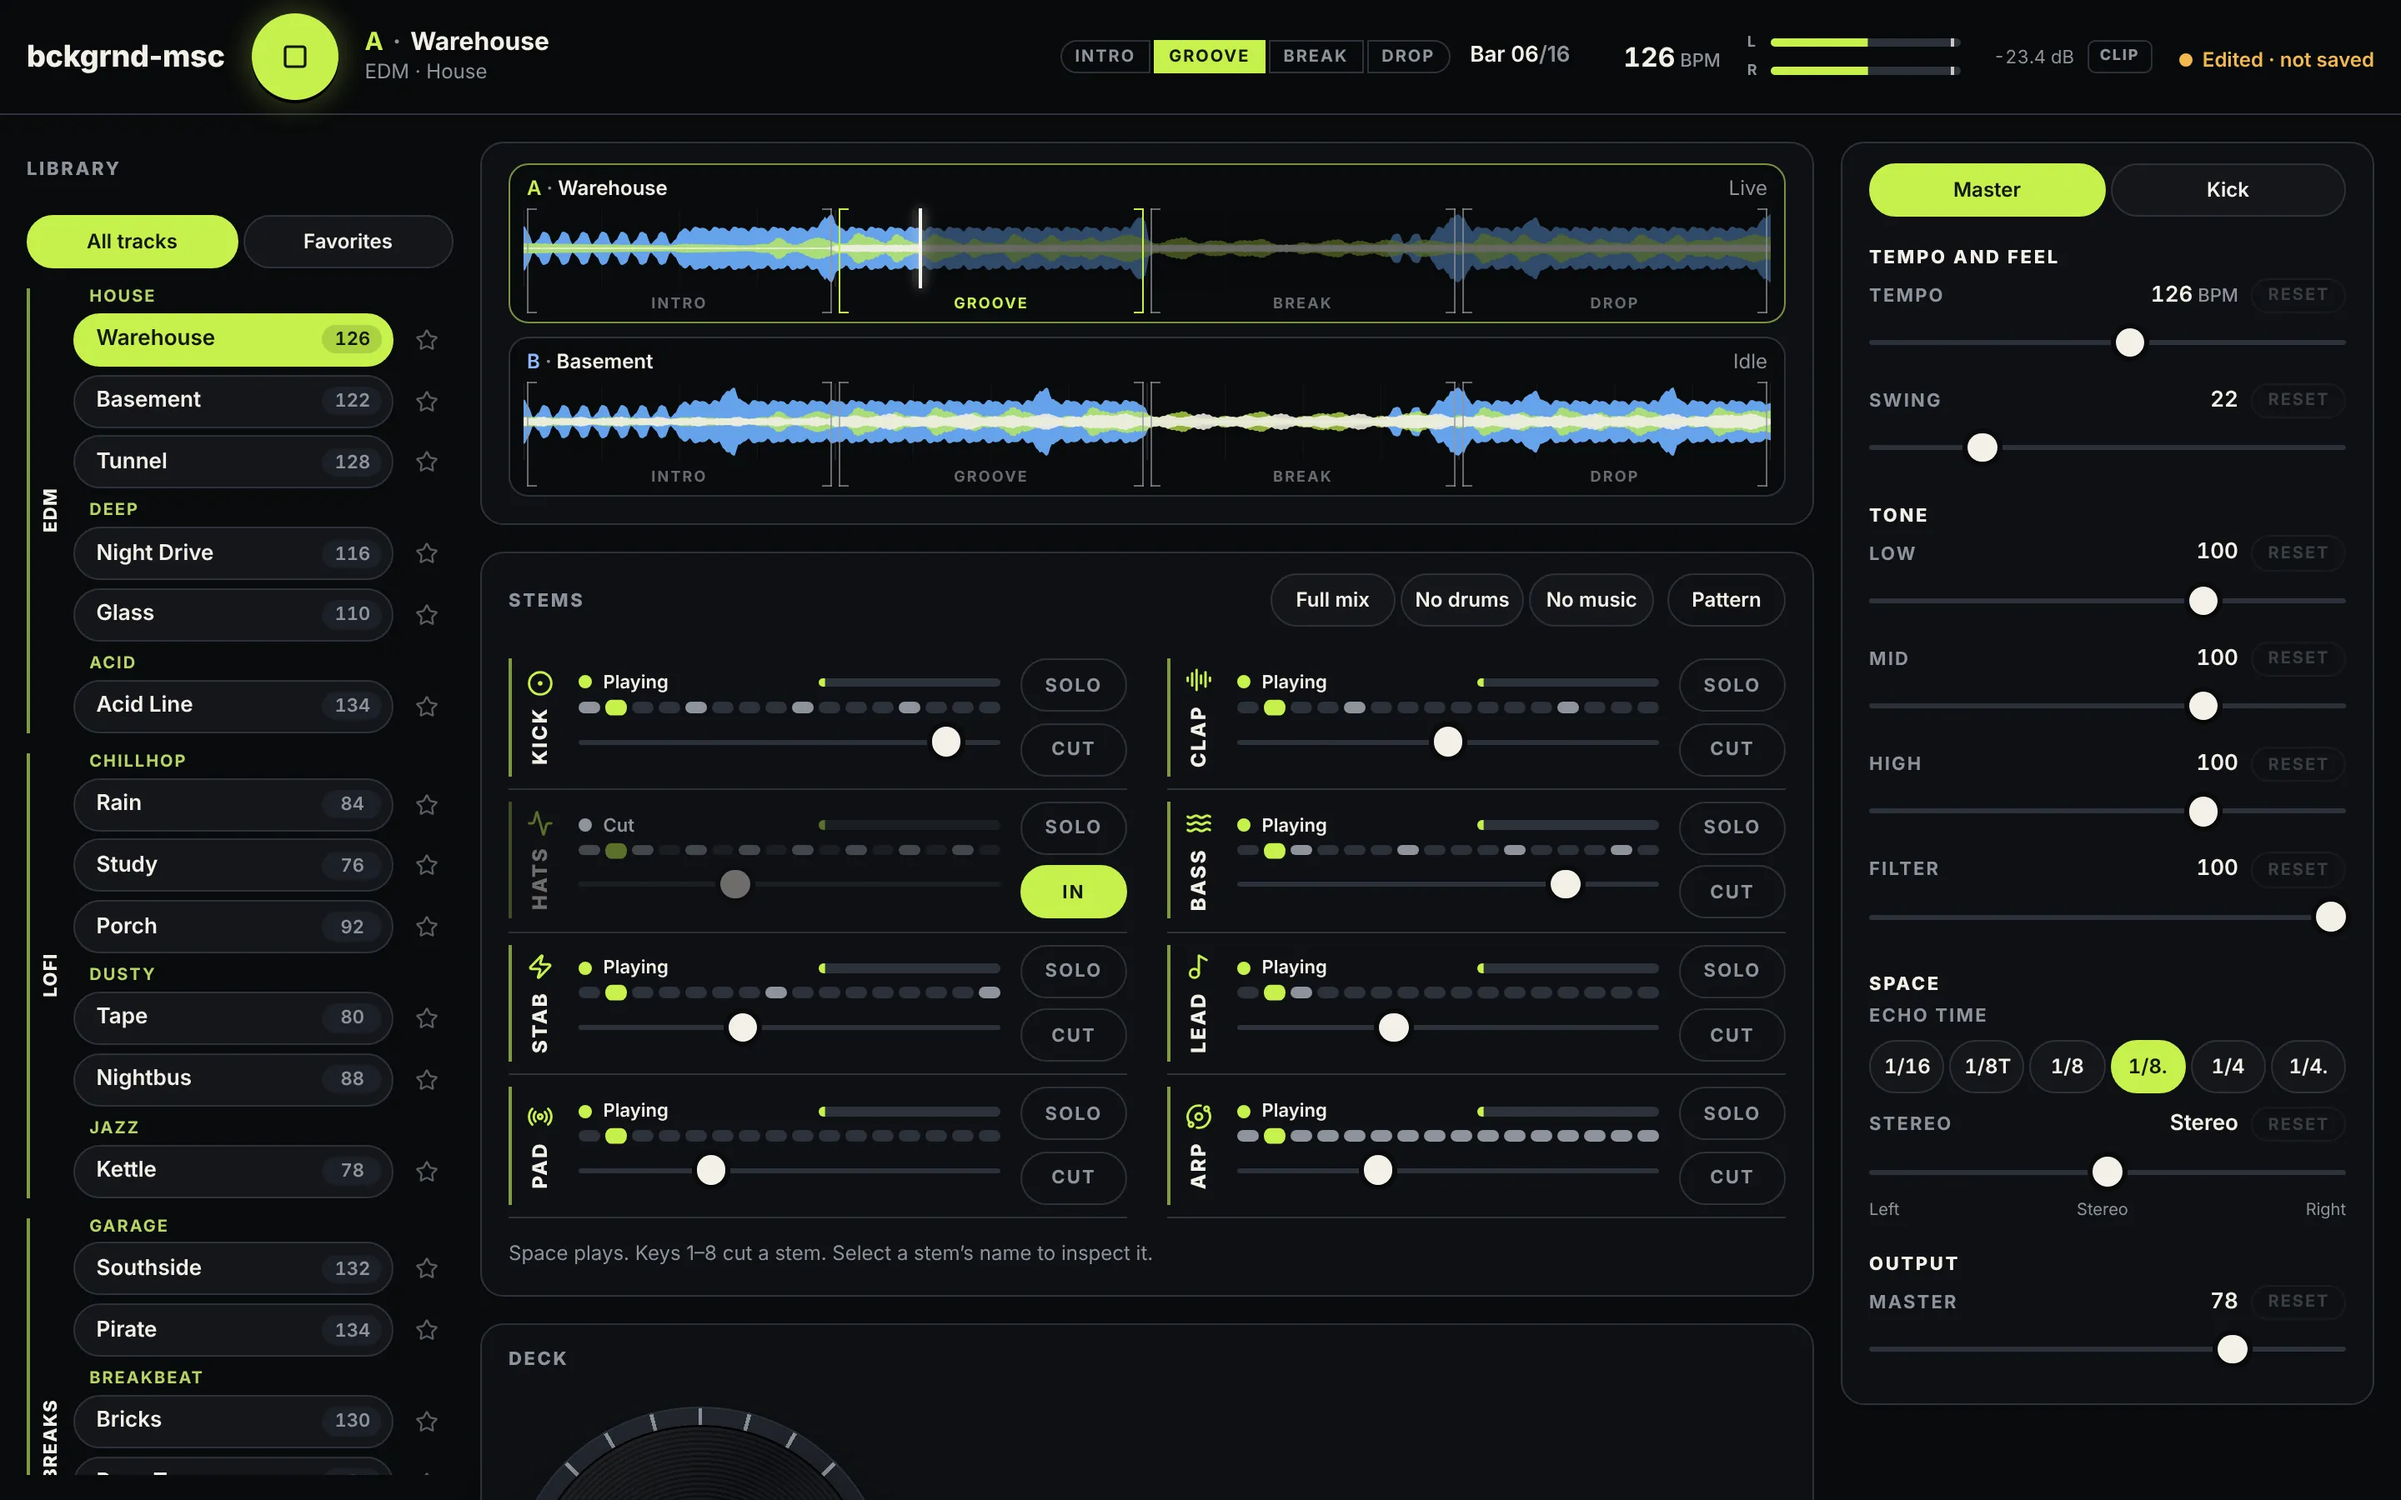
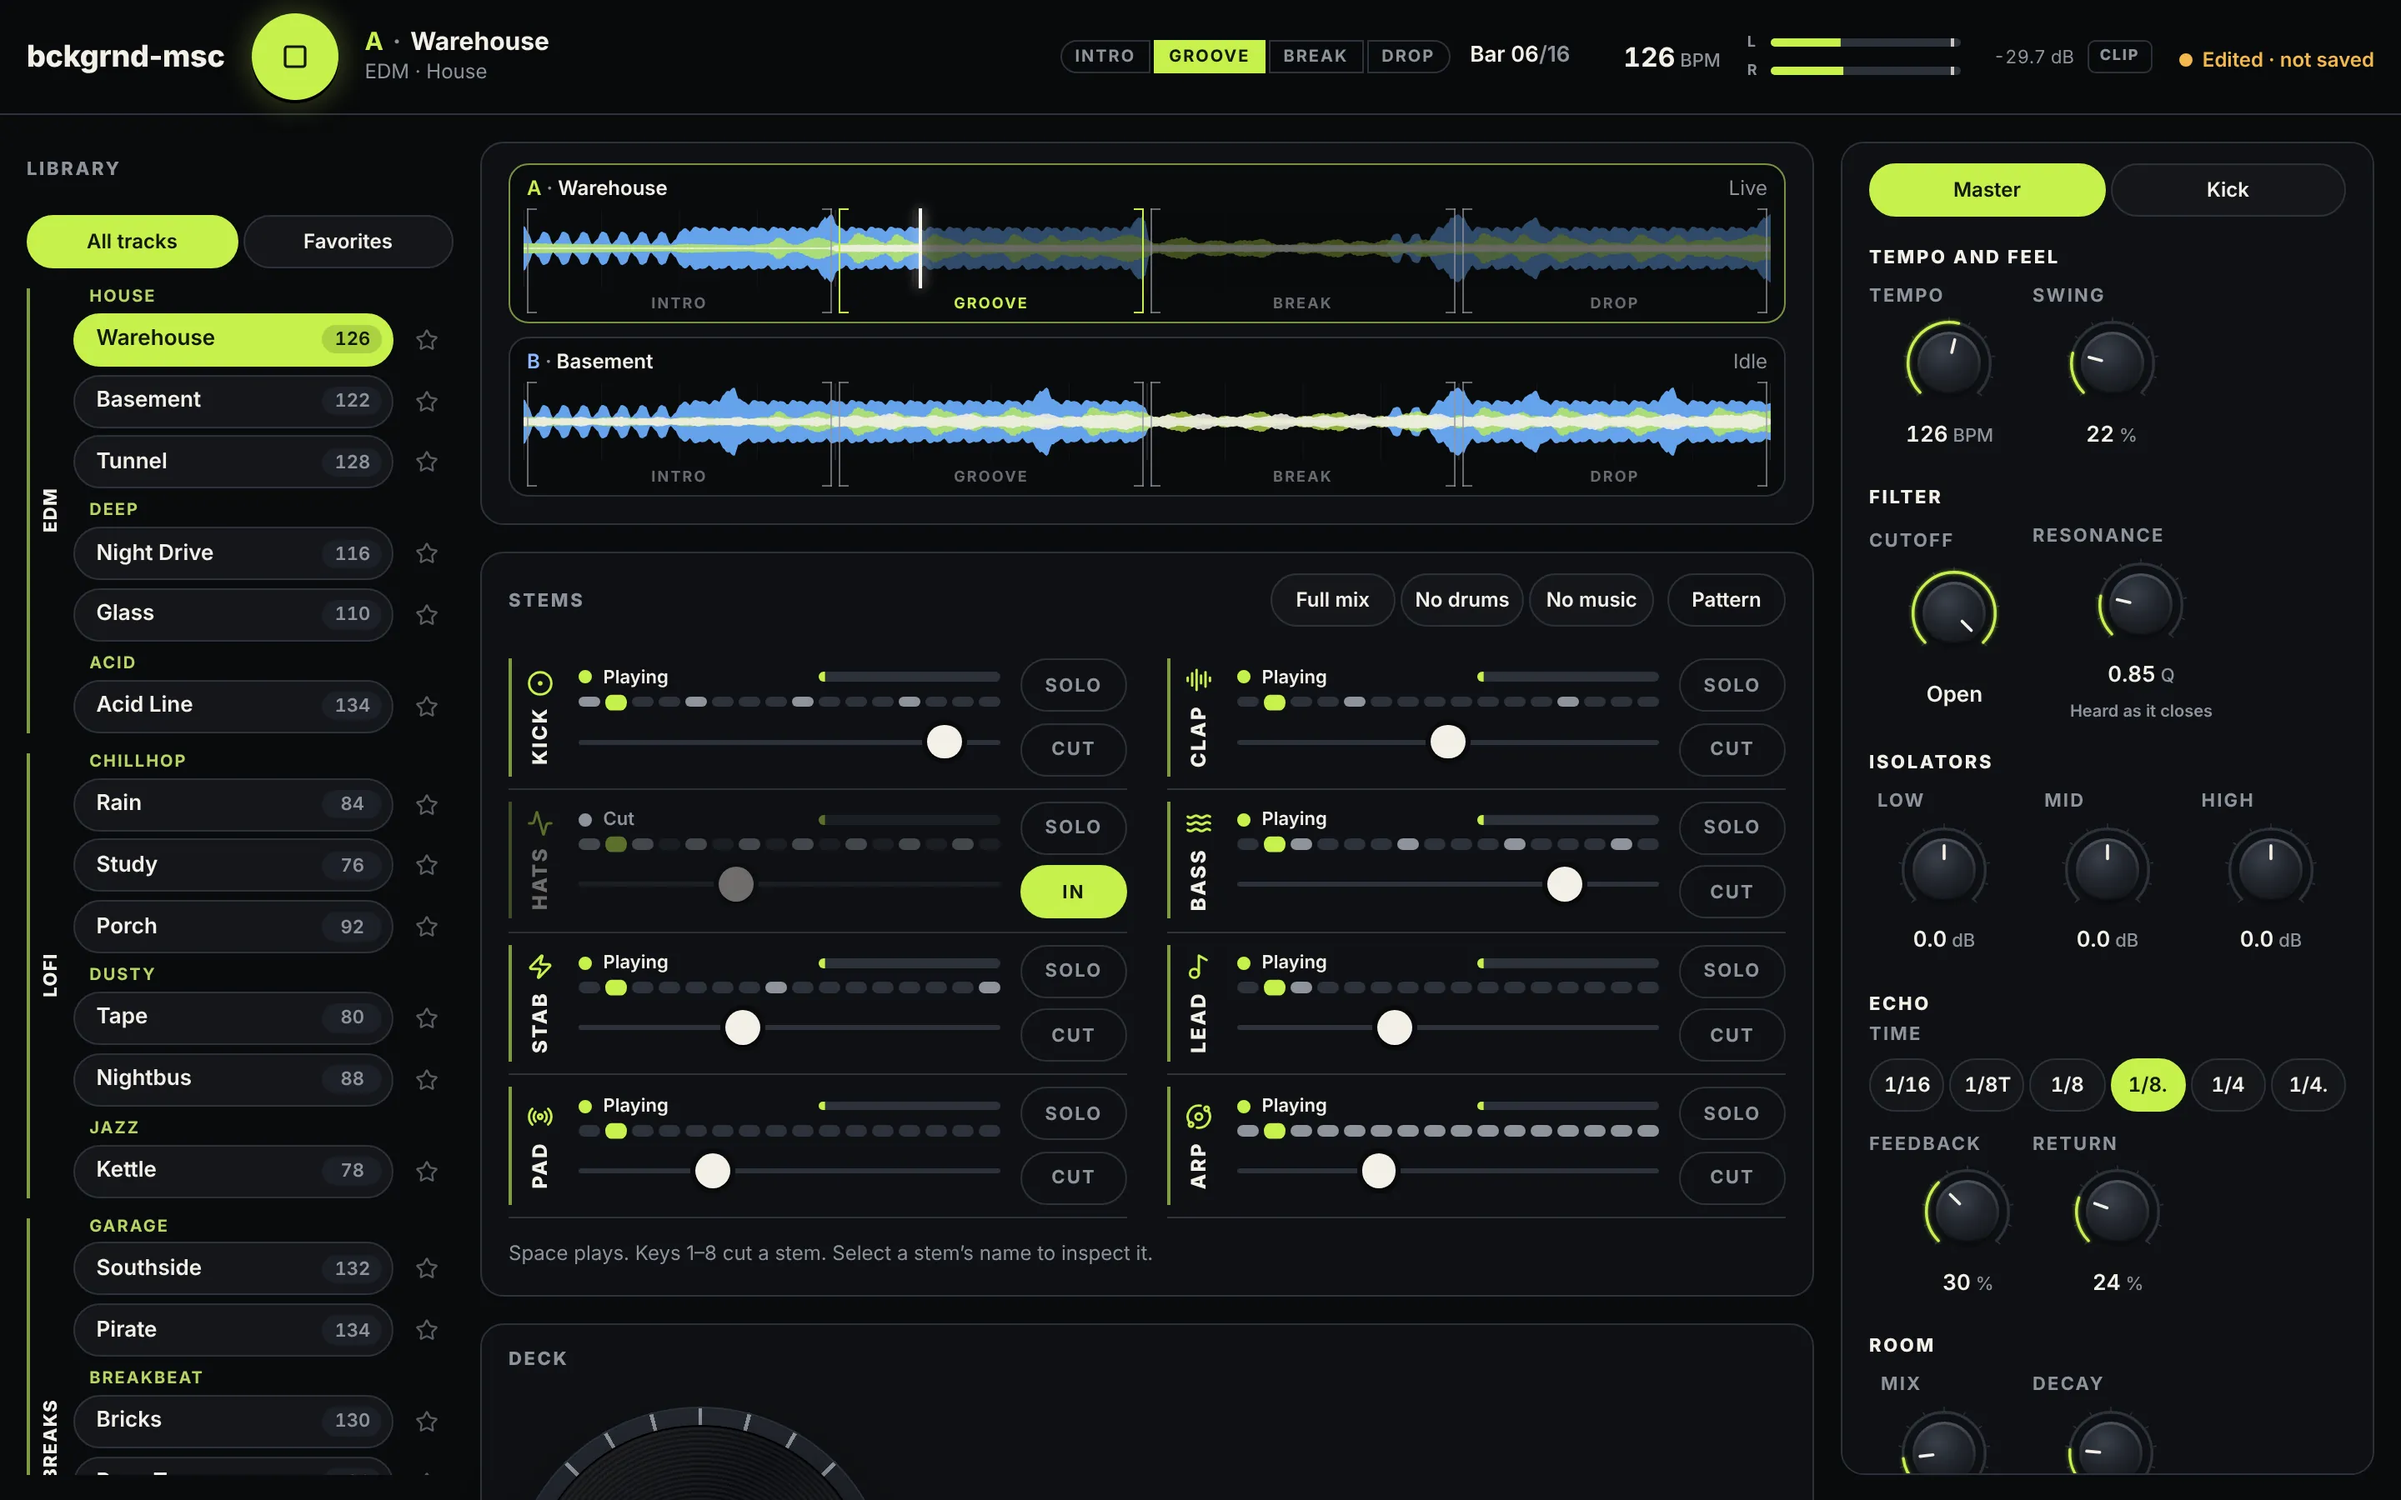
docs: Night 2 in the README, design rules, roadmap and parking lot
Knob rules and a touch screen reader checklist (not yet run on a device),
the new controls and gestures, PARKING_LOT #1 closed with what else
Night 2 found, and a new screenshot.

Claude-Session: https://claude.ai/code/session_01VmqV5ZqBiP7Rjgnc3mMYrq

diff --git a/README.md b/README.md
@@ -76,7 +76,7 @@ read `netlify.toml`.
 | Transport (top, always visible) | Play/stop, the track, the song part and bar, the tempo, the master meter with a clip light, and whether the mix differs from the track as written. Nothing is saved yet, so it says so. |
 | Library (left) | Tracks by section and style, with a star to keep favorites (stored in this browser only). On narrower screens it opens from the button in the transport. |
 | Performance area (middle) | The two decks, the stems, the jog wheel and pads, loop, and mixing to the next track. |
-| Inspector (right) | **Master**: tempo, swing, the isolators, filter, echo time, stereo and master level. Select a stem's name to see that stem instead. |
+| Inspector (right) | **Master**: the effects rack, all knobs except the echo's note divisions. Select a stem's name to see that stem instead: its fader, its echo send, Solo and Cut. |
 | Pattern drawer (bottom) | Opened from **Pattern** or the inspector. One stem's pattern across all 16 bars, with the playhead. Read-only for now. Escape closes it. |
 
 On a phone the same panels show one view at a time: **Perform**, **Mix** and
@@ -176,21 +176,40 @@ The label turns at 33⅓ rpm while the deck plays, except under reduced motion.
 
 ## Controls
 
+The continuous controls in the inspector are knobs. Each one:
+
+| Gesture | What it does |
+|---|---|
+| Drag up / down | Turns it. A full sweep is 180 px. Hold **Shift** for ten times finer. |
+| Drag round | Turns it with the hand instead, when **Knobs turn by dragging** is set to **Round** (at the bottom of the inspector, remembered in this browser). |
+| Double-click / double-tap | Back to its default. So does the **Reset** badge, which appears once it has moved. |
+| Click the value | Type one: `1.2k`, `-6 dB`, `35%`, `kill`, `open`. Enter sets it, Escape leaves it. |
+| Keyboard | Arrows step 1% (Shift 0.1%), Page Up/Down 10%, Home/End the ends, Delete resets, Enter types a value. |
+
 | Control | What it does |
 |---|---|
 | Loop | 1, 2, 4, 8 or 16 bars, snapped to a bar boundary. Click the lit one to turn it off. |
-| Echo time | 1/16, 1/8T, 1/8, 1/8. (default), 1/4, 1/4. — the stem echo's delay. Click the lit one to turn the echo off; what's already in it rings out. |
-| Low / Mid / High | Isolators: low shelf 180 Hz, mid bell 1 kHz, high shelf 3.2 kHz. |
-| Filter | One tape-style lowpass sweep, 240 Hz to 18 kHz, exponential under the finger. |
-| Stereo | A balance fader. Left end is mono-left, the middle is full stereo, the right end is mono-right. |
-| Tempo | Retimes the grid, the duck recovery and the delay together. |
+| Tempo | Retimes the grid, the duck recovery and the delay together. Whole BPM, 60–180. |
 | Swing | Pushes every other sixteenth late. |
-| Master | Output level. |
+| Cutoff | One tape-style lowpass sweep, 240 Hz to 18 kHz, exponential under the hand. Reads **Open** at the top. |
+| Resonance | The filter's Q as it closes, 0.5 to 6. It fades out over the last tenth of the cutoff's travel, so an open filter stays transparent. |
+| Low / Mid / High | Isolators: low shelf 180 Hz, mid bell 1 kHz, high shelf 3.2 kHz. Unity at twelve o'clock, **Kill** at the bottom, +2.9 dB at the top. |
+| Echo time | 1/16, 1/8T, 1/8, 1/8. (default), 1/4, 1/4. — the stem echo's delay. Click the lit one to turn the echo off; what's already in it rings out. |
+| Feedback | How long the echo keeps repeating, 0–90%. |
+| Return | How loud the echo comes back. The echo throw holds feedback and return open while it is on and gives them back after. With the echo off, both are disabled: they have nothing to act on. |
+| Room mix / Decay | The room under the mix: 0–50%, and 0.2 to 2.5 s. |
+| Width | 0% is mono, 100% as mixed, up to 150%. |
+| Balance | Left end is mono-left, the middle is full stereo, the right end is mono-right. |
+| Master | Output level, in dB. |
+| Stem fader | The stem's level. Double-click it, or press Delete on it, to go back to the track's own level. |
+| Echo send (per stem) | How much of the stem feeds the echo. Each stem starts at its own amount and goes back there with a new track. |
 | Master meter | Left and right peak of what leaves the engine, in the transport. Turns amber near the limiter. The **Clip** light holds for two seconds after any sample goes past full scale, which can only happen while a crossfade adds two decks together. |
-| Reset | Every fader in this table has one. Tempo and swing go back to the track's own values; the rest to their defaults. Disabled when it's already there. |
 | Space | Play / stop. |
 
-The stem faders don't have a Reset badge.
+Nothing moves the sound in a step. Every fader, cut, solo, send and knob glides
+over 12–30 ms in the engine, so cutting a stem mid-note, slamming a fader or
+hammering Cut doesn't click (`engine-core/tests/smoothing.rs`). A whole drag, a held
+arrow key or a typed value is one edit, which is what undo will step through.
 
 ## Mixing
 

diff --git a/docs/DESIGN_PHILOSOPHY.md b/docs/DESIGN_PHILOSOPHY.md
@@ -141,6 +141,45 @@ controls are built from these and don't restyle them locally.
 | `PerformancePad` | A raised, pressable pad, momentary or latching, with an optional "held" state. |
 | `StemStrip` | One stem: spine, status, meter, bar pattern, fader, Solo and Cut. |
 | `StatusIndicator` | A dot plus words for one of the states above. |
+| `Knob` | Every continuous control that turns. One implementation, in [`frontend/ui/Knob.tsx`](../frontend/ui/Knob.tsx). |
+| `Fader` | Stem volumes, which stay faders: a row of eight faders reads as a mixer at a glance. |
+
+## Knobs
+
+- **It turns.** A 270° sweep. The indicator's angle comes from the real value
+  through the parameter's mapping ([`frontend/lib/mappings.ts`](../frontend/lib/mappings.ts)),
+  so the knob shows what the engine has.
+- **The light doesn't move.** Only the indicator rotates. The face, its highlight,
+  the ticks and the arc track stay fixed.
+- **Each parameter has its own curve.** Frequencies are exponential and read in
+  Hz/kHz. Gains are laid out in dB. Isolators put unity at twelve o'clock. Times are
+  logarithmic. Discrete choices (echo divisions, loop lengths) are stepped buttons,
+  never a knob.
+- **Units that mean something:** 2.4 kHz, −6.0 dB, 35%, 0.32 s, 1/8., Open, Kill, Mono.
+- **States:** default, focused (a ring round the dial), dragging (the arc and pointer
+  brighten), disabled (dimmed, with a note saying why), modified (the label lights and
+  Reset appears), and changed from outside (the readout flashes briefly).
+- **No control without an effect.** If a control can't change the sound in the
+  current state, it's disabled and says why ("Echo is off"), rather than moving a
+  number nobody hears.
+- **One edit per gesture.** A drag, a held key, a reset or a typed value is one entry
+  in the edit log, never one per intermediate value.
+
+## Testing controls with touch screen readers
+
+Custom sliders often work with a desktop keyboard and fail with VoiceOver on iOS or
+TalkBack on Android, whose swipe-to-adjust gestures send no key events. The knob's
+accessible control is therefore a native `<input type="range">`, which both platforms
+adjust as a slider. That is a design choice, not proof. The checklist below has
+**not yet been run on a device**; it belongs to the mobile compatibility check.
+
+- [ ] VoiceOver (iOS Safari): swipe to a knob. It reads the label and the value in
+      words ("Cutoff, Open, 18 kilohertz, adjustable").
+- [ ] Swipe up and down adjusts it, and the sound follows.
+- [ ] Double-tap and hold, then drag, doesn't leave it stuck after letting go.
+- [ ] TalkBack (Android Chrome): the same three.
+- [ ] The value button reads as "Type a value" and opens the field.
+- [ ] A disabled knob reads as dimmed and its note is read.
 
 ## Architecture boundaries
 

diff --git a/PARKING_LOT.md b/PARKING_LOT.md
@@ -5,7 +5,7 @@ each one is likely to be heard.
 
 | # | Where | What's wrong | Audible effect |
 |---|---|---|---|
-| 1 | `mixer.rs`, `lib.rs` | No gain smoothing on mute, solo, faders, master or EQ. The reference uses `setTargetAtTime` (12–20 ms). | A click on every stem toggle, which is the main thing the app does. |
+| ~~1~~ | `mixer.rs`, `lib.rs` | ~~No gain smoothing on mute, solo, faders, master or EQ.~~ **Fixed 11-03-2026 (Night 2):** every user-moved gain glides in the engine (12 ms channels, 15–30 ms master, filter and EQ), tested in `engine-core/tests/smoothing.rs`. | — |
 | 2 | `dsp.rs` `Adsr` | Release starts `attack` seconds late. `hold_end` is measured from note-on, but `elapsed` is re-based when the attack ends. | Pads sustain up to 0.7 s too long. `release_starts_at()` disagrees, so the filter sweep closes early. |
 | 3 | `drums.rs:141` | Kick click decays with `*= 0.86` per sample, not over 15 ms. | About 13x too short, and it changes with the sample rate. The kick loses its beater. |
 | 4 | `drums.rs:200,206` | The clap tail's 18 ms offset is counted twice, as a delay and as an attack. | The clap peaks at 36 ms instead of 18, and smears behind the backbeat. |
@@ -142,3 +142,20 @@ not. Things to settle before or while building it:
   optimized). Release builds must come from a machine where `wasm-opt` runs.
 - **NativePHP can't open a window:** `config/nativephp.php` names
   `App\Providers\NativeAppServiceProvider`, which doesn't exist. Night 6, first item.
+
+## Found on Night 2 (11-03-2026)
+
+- ~~**The filter's Q jumped from 0.85 to 0.45 as the cutoff passed 97%.**~~ — fixed: it
+  now blends over the last tenth of the travel, so a sweep through the top is smooth.
+- ~~**The filter recomputed its coefficients every sample**~~ (a `powf`, a `sin` and a
+  `cos` per sample, for a glide that moves far slower than that) — fixed: the filter
+  and EQ step at control rate, every 16 samples, and only while they are moving.
+- ~~**A cut sent just before Play let the first hit through.**~~ — found while adding
+  the smoothing, fixed before it shipped: a stem's gain jumps to its target while its
+  bus is silent, so a stem cut before anything sounds is silent from the first sample.
+- **Touch screen readers have not been tried on a device.** The knobs are built on a
+  native range input so VoiceOver and TalkBack can adjust them as platform sliders,
+  and the touch-drag path is tested with real touch events in Chromium, but nobody
+  has run the checklist in [docs/DESIGN_PHILOSOPHY.md](docs/DESIGN_PHILOSOPHY.md) on
+  an iPhone or an Android phone yet. Do it with the mobile compatibility check.
+

diff --git a/docs/ROADMAP.md b/docs/ROADMAP.md
@@ -48,6 +48,8 @@ works. iOS/Android packaging and mobile audio behavior are their own work (see
 layout; keyboard focus is clear; narrow screens stay usable; the design rules are
 written down.
 
+**Status:** done 11-03-2026.
+
 ## Night 2: knobs, mixer, effects
 
 - A `Knob` shell: drag vertically, fine adjustment with Shift, arrow keys, double-click
@@ -62,9 +64,22 @@ written down.
   `contracts/parameters.json` first.
 - A stretch goal, only if the master rack is solid: per-stem sends (delay on the lead
   without the kick).
-- A compact and an expanded mixer.
+- A compact and an expanded mixer. *Moved to Night 3*, where performance mode
+  decides what the compact view needs.
+
+**Status:** done 11-03-2026. One `Knob` (stable lighting, 270° sweep, vertical and
+circular drag, Shift fine, keyboard, typed values, double-click and Reset, every
+state), built on a native range for screen readers. Smoothing in the engine for every
+user-moved gain, tested at waveform peaks (ADR-013). New DSP controls, each wired and
+tested before it was shown: filter resonance, echo feedback and return, room mix and
+decay, stereo width, per-stem echo sends. Faders kept for stem volume, now larger,
+with double-click/Delete to the track's level. Messages are coalesced per frame,
+controls are memoized, and a gesture is one edit. Not done: testing with touch
+screen readers on a device (checklist in DESIGN_PHILOSOPHY.md).
 
 ## Night 3: performance mode, scenes, transitions
+
+- A compact and an expanded mixer (moved from Night 2).
 
 - Quantized performance controls: trigger a break, a build or a drop on the next bar;
   a fill at the end of a phrase; momentary filter sweep, echo throw and stutter while
